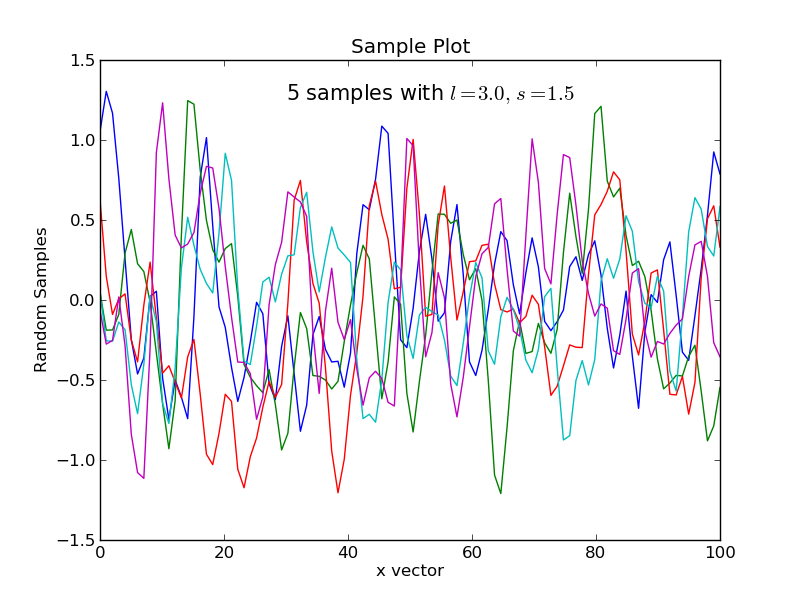
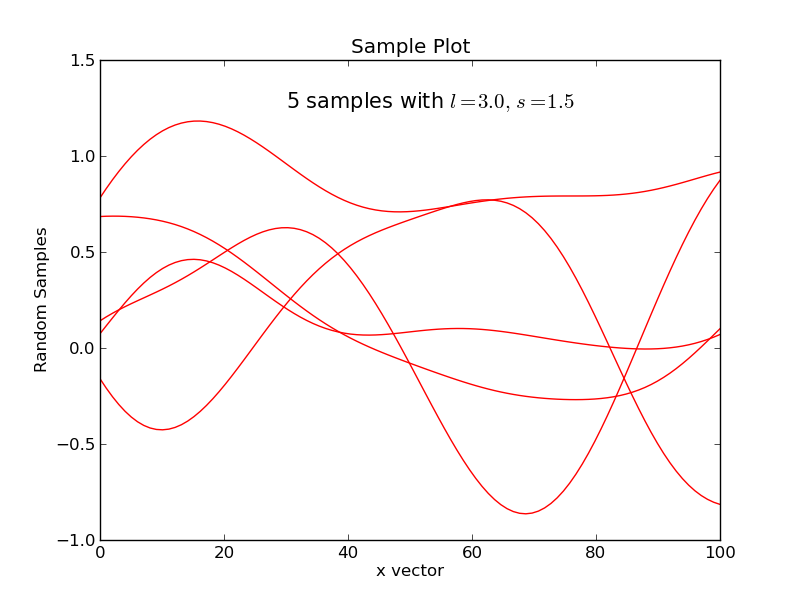
new fig.

diff --git a/sample_multi_norm_cov.py b/sample_multi_norm_cov.py
@@ -229,8 +229,8 @@ if __name__ == '__main__':
     x = np.mat(x)
     x = x.transpose()
     s = 0.50
-    l =1.5
-    k = se_cov_func(x, s, l)
+    l = 20.
+    k = se_cov_func(x, s, l) + 1e-10 * np.eye(100)
     mu = np.zeros(100)
     mu = np.mat(mu)
     mu = mu.transpose()
@@ -238,7 +238,7 @@ if __name__ == '__main__':
     #Plot 5 different random samples for the given value of s and l.
     for i in range(5):
         f = sample_multi_norm(mu, k, 100)
-        plt.plot(x, f)
+        plt.plot(x, f, 'r')
     plt.plot(label = '$l = 3.0,\ s = 1.5$')
     plt.xlabel("x vector")
     plt.ylabel("Random Samples")
